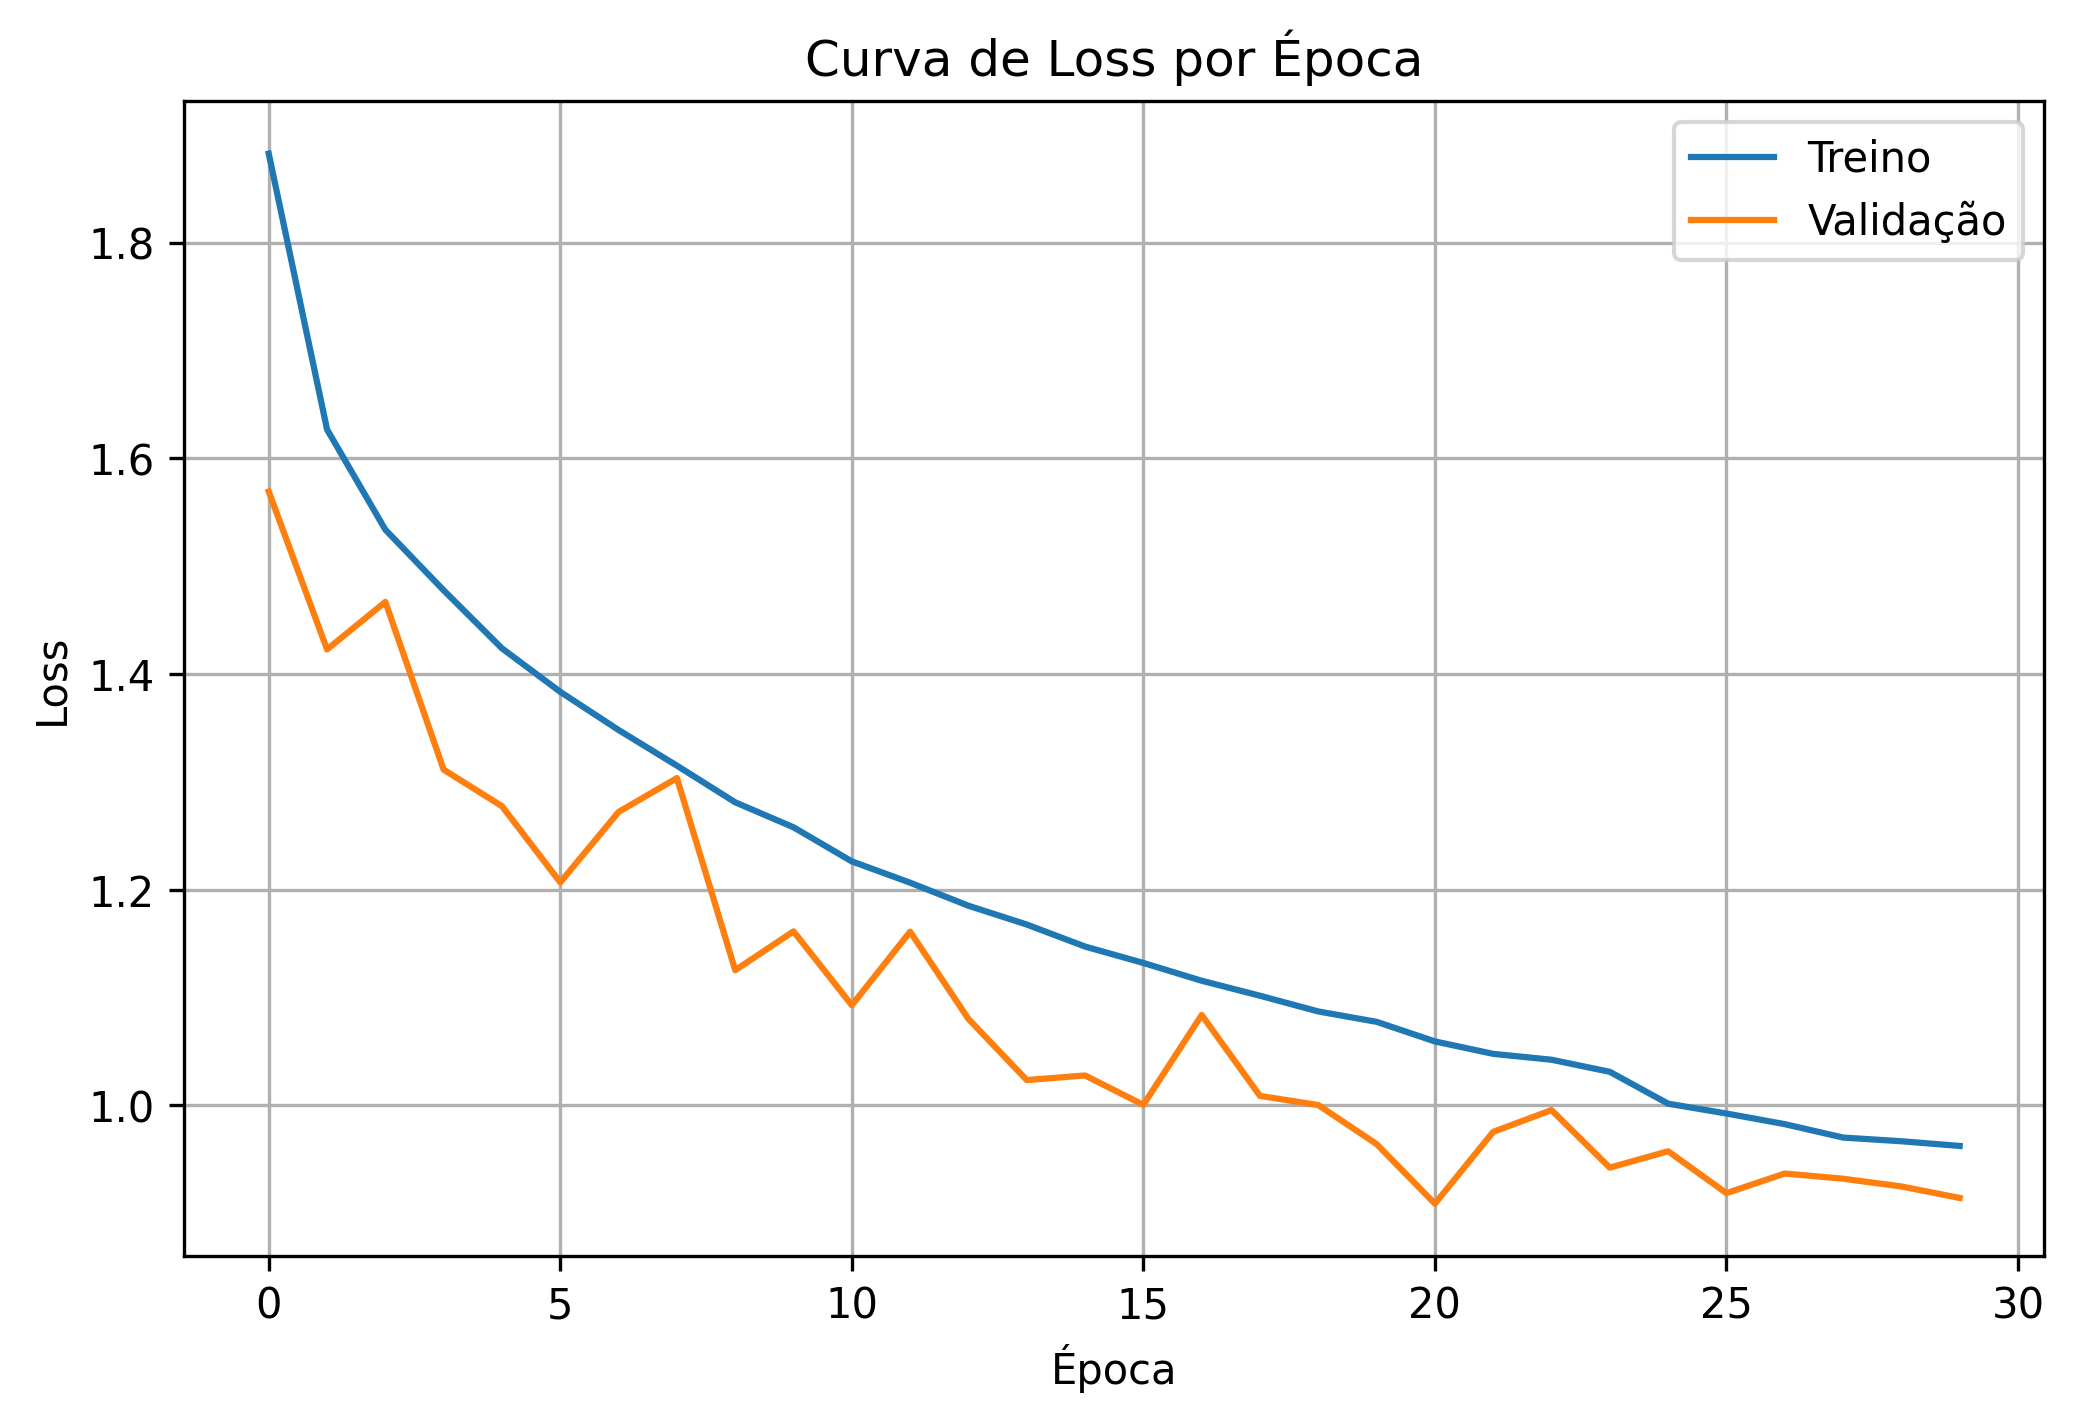
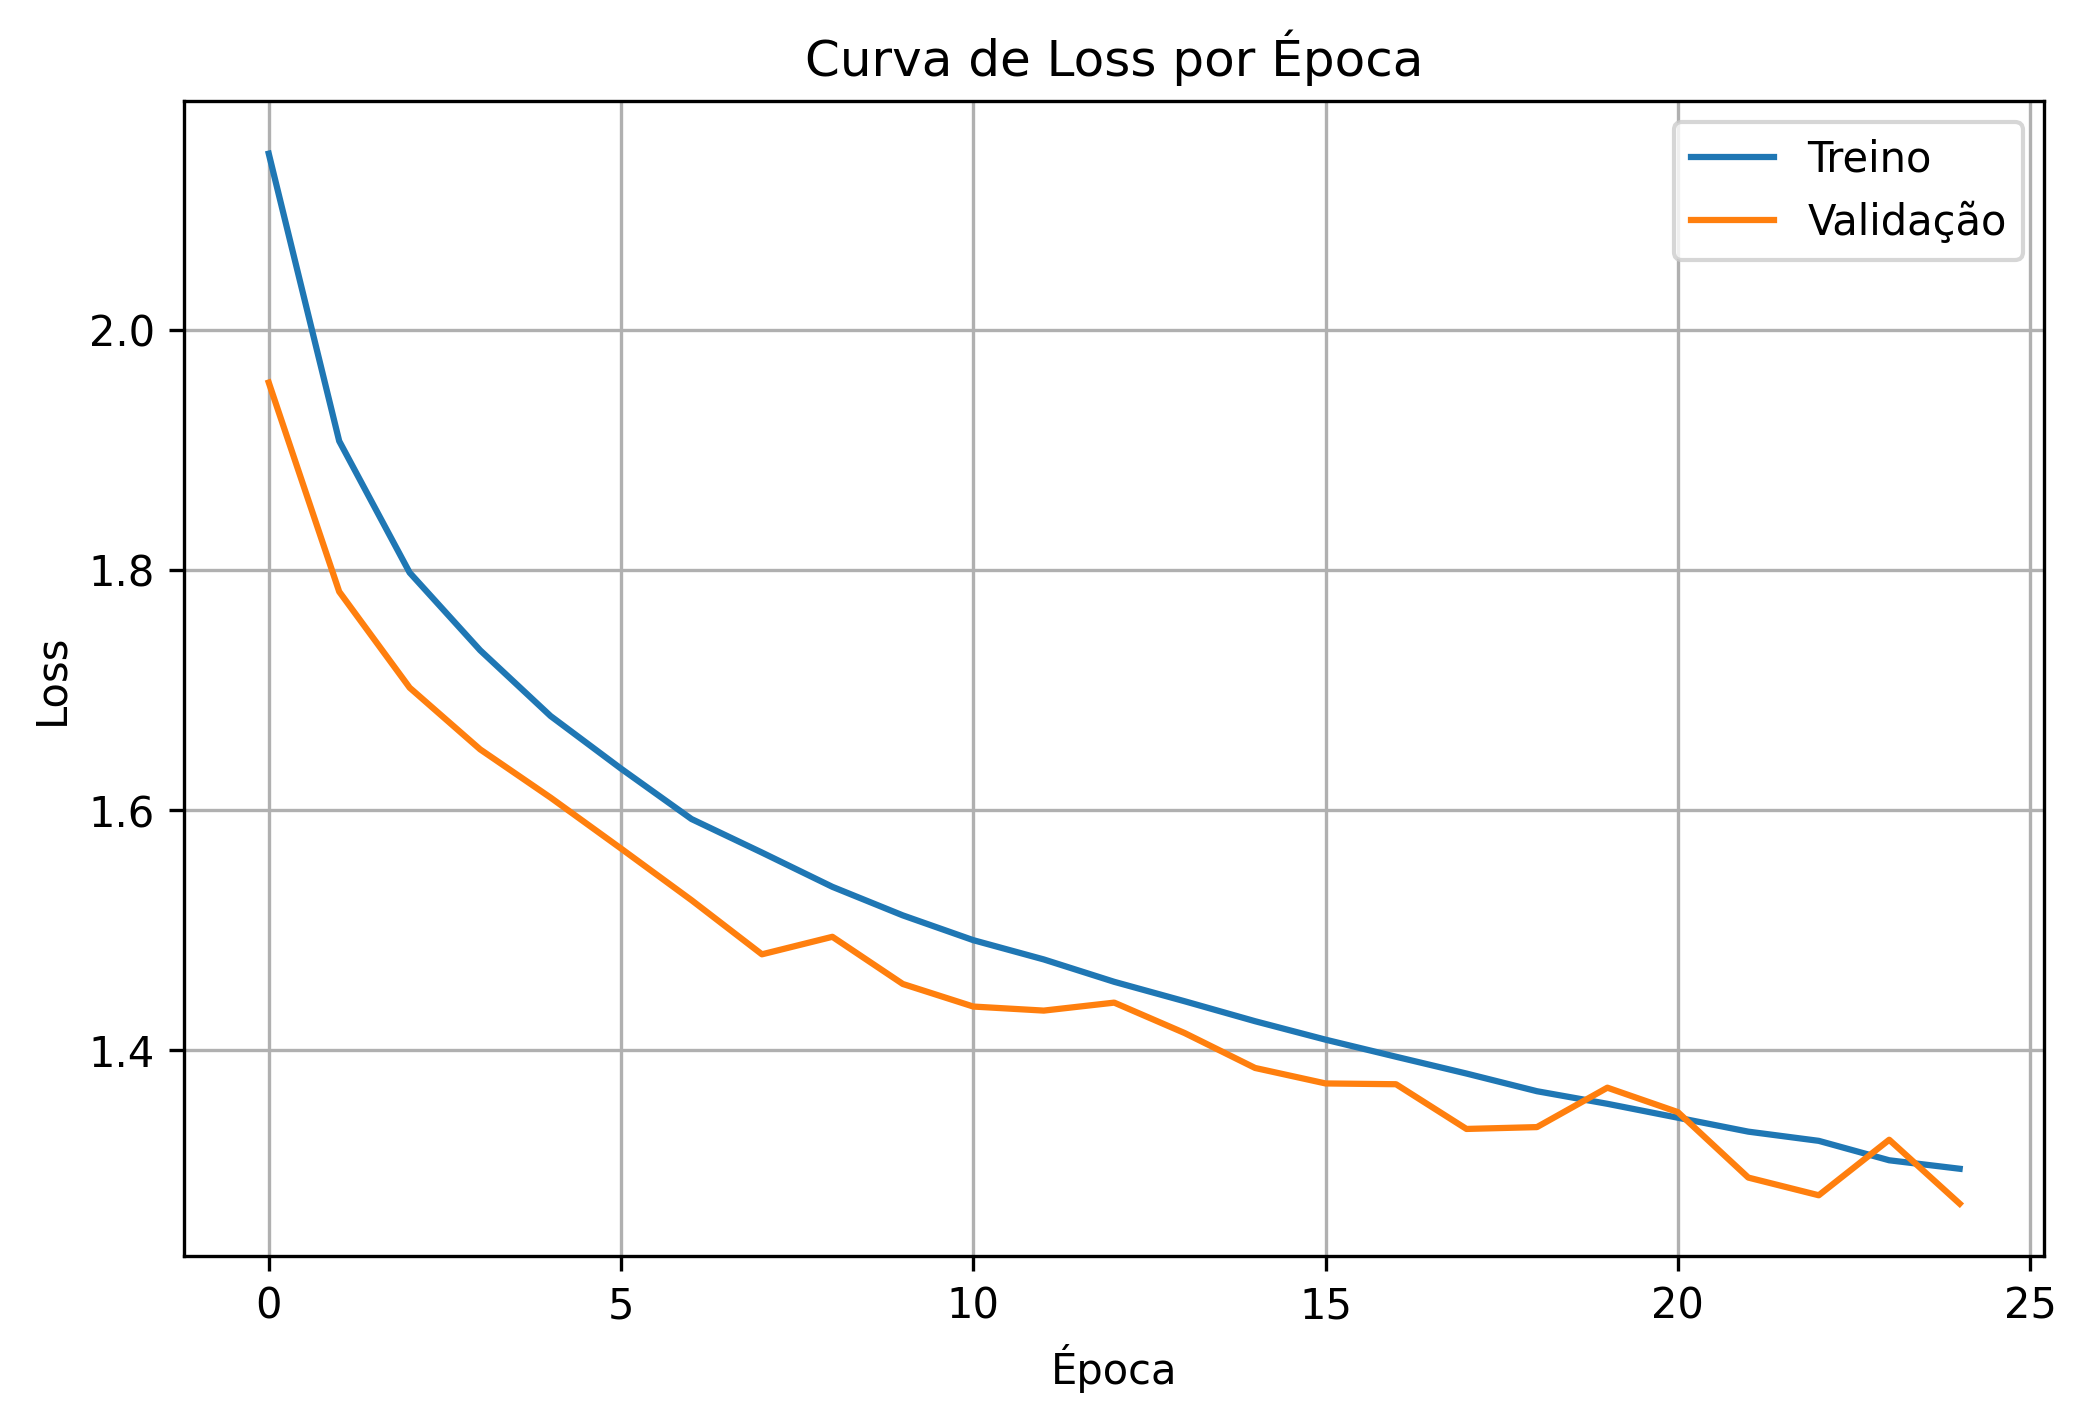
atualizacao de data_augmentation

diff --git a/model.py b/model.py
@@ -12,15 +12,22 @@ def build_model():
         tf.keras.layers.Conv2D(128, (3,3), activation="relu", padding="same"),
         tf.keras.layers.MaxPooling2D(2,2),
 
+        tf.keras.layers.Conv2D(256, (3,3), activation="relu", padding="same"),
+        tf.keras.layers.MaxPooling2D(2,2),
+        
+        tf.keras.layers.Conv2D(512, (3,3), activation="relu", padding="same"),
+        tf.keras.layers.MaxPooling2D(2,2),
+
         tf.keras.layers.Flatten(),
-        tf.keras.layers.Dense(128, activation="relu"),
-        tf.keras.layers.Dropout(0.4),
+        tf.keras.layers.Dense(512, activation="relu"),
+        tf.keras.layers.Dropout(0.5),
         tf.keras.layers.Dense(10 , activation = "softmax")
     ])
 
+   
 
     model.compile(
-        optimizer=tf.keras.optimizers.Adam(
+        optimizer = tf.keras.optimizers.Adam(
             learning_rate = LEARNING_RATE
         ),
         loss = "sparse_categorical_crossentropy",

diff --git a/config.py b/config.py
@@ -1,6 +1,6 @@
 
 BATCH_SIZE    = 32
-LEARNING_RATE = 0.001
-EPOCHS        = 100
+LEARNING_RATE = 0.00001
+EPOCHS        = 150
 
 OUTPUT_DIR    = "plots"

diff --git a/data.py b/data.py
@@ -5,8 +5,8 @@ from config import BATCH_SIZE, OUTPUT_DIR
 
 data_augmentation = tf.keras.Sequential([
   tf.keras.layers.RandomFlip("horizontal"),
-  tf.keras.layers.RandomRotation(0.1),
-  tf.keras.layers.RandomZoom(0.1),
+  tf.keras.layers.RandomRotation(0.028),
+  tf.keras.layers.RandomZoom(0.05),
 ])
 
 def normalize(image, label):

diff --git a/train.py b/train.py
@@ -6,7 +6,7 @@ def train_model(model, train_data, val_data, epochs,):
         train_data,
         validation_data = val_data,
         epochs = epochs,
-        callbacks = tf.keras.callbacks.ReduceLROnPlateau(monitor = "val_loss", factor = 0.7, patience = 3),
+        callbacks = tf.keras.callbacks.ReduceLROnPlateau(monitor = "val_loss", factor = 0.4, patience = 7 , min_lr = 0.000001),
         verbose = 1
     )
 